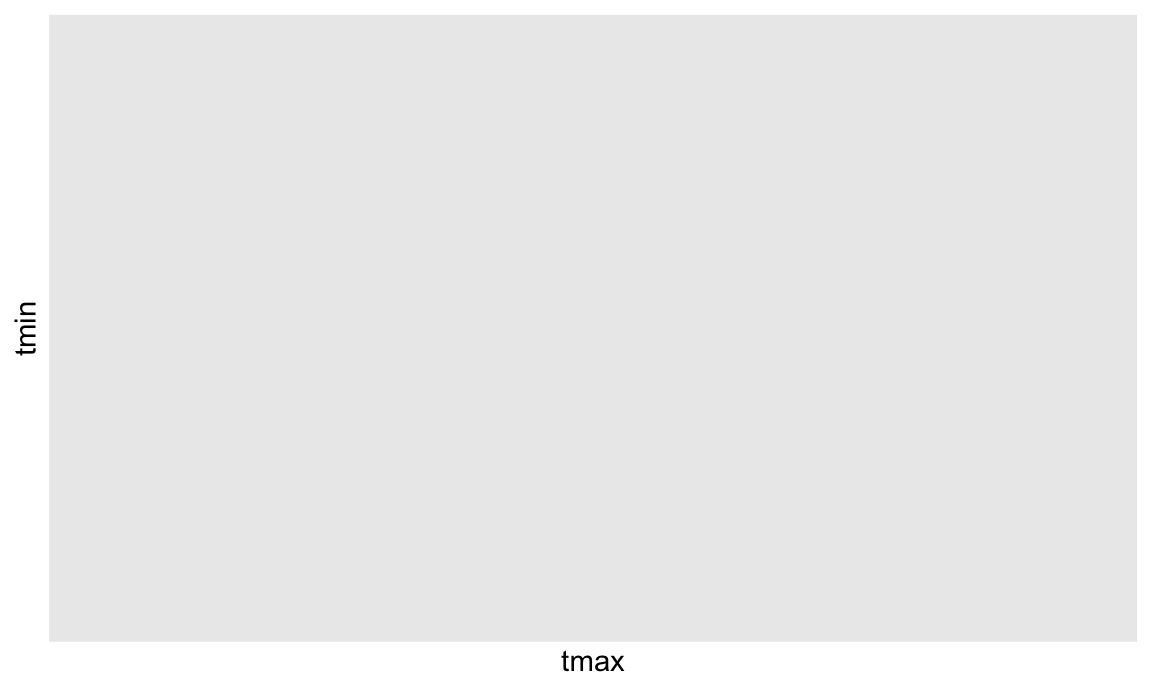
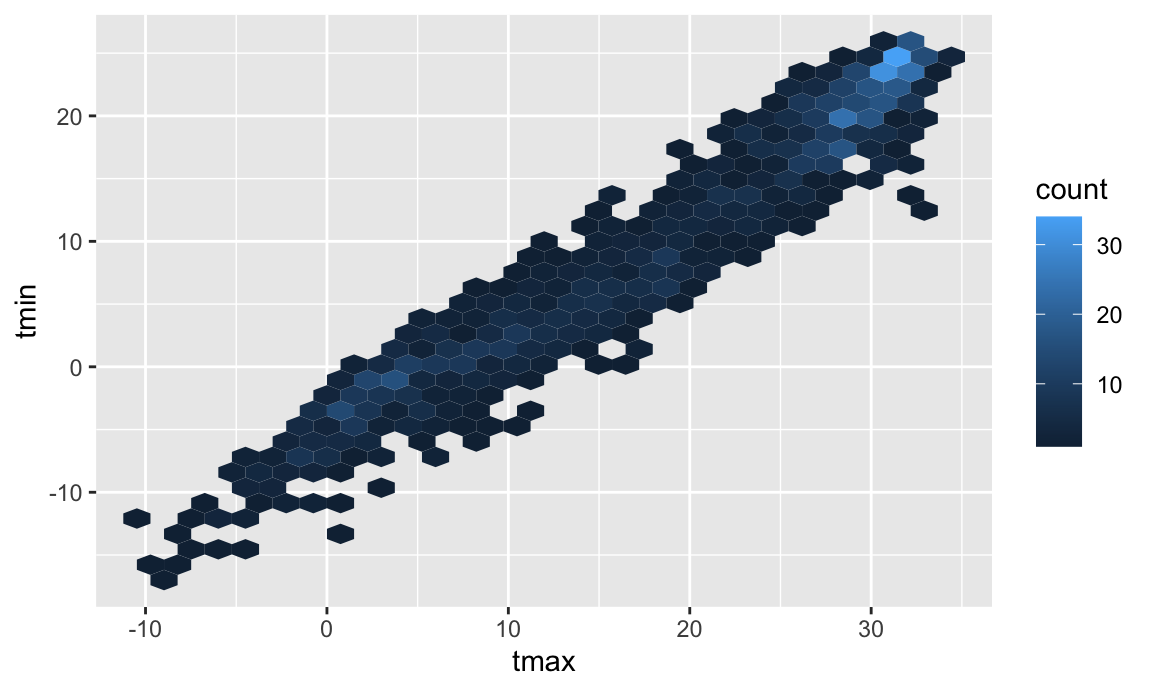
forgot to install hexbin

diff --git a/visualization_pt1.html b/visualization_pt1.html
@@ -666,8 +666,7 @@ transparency. In these cases <code>geom_hex()</code>,
 handy:</p>
 <pre class="r"><code>ggplot(weather_df, aes(x = tmax, y = tmin)) + 
   geom_hex()
-## Warning: Removed 15 rows containing non-finite values (stat_binhex).
-## Warning: Computation failed in `stat_binhex()`:</code></pre>
+## Warning: Removed 15 rows containing non-finite values (stat_binhex).</code></pre>
 <p><img src="visualization_pt1_files/figure-html/unnamed-chunk-13-1.png" width="90%" /></p>
 <p>There are lots of aesthetics, and these depend to some extent on the
 geom – <code>color</code> worked for both <code>geom_point()</code> and
